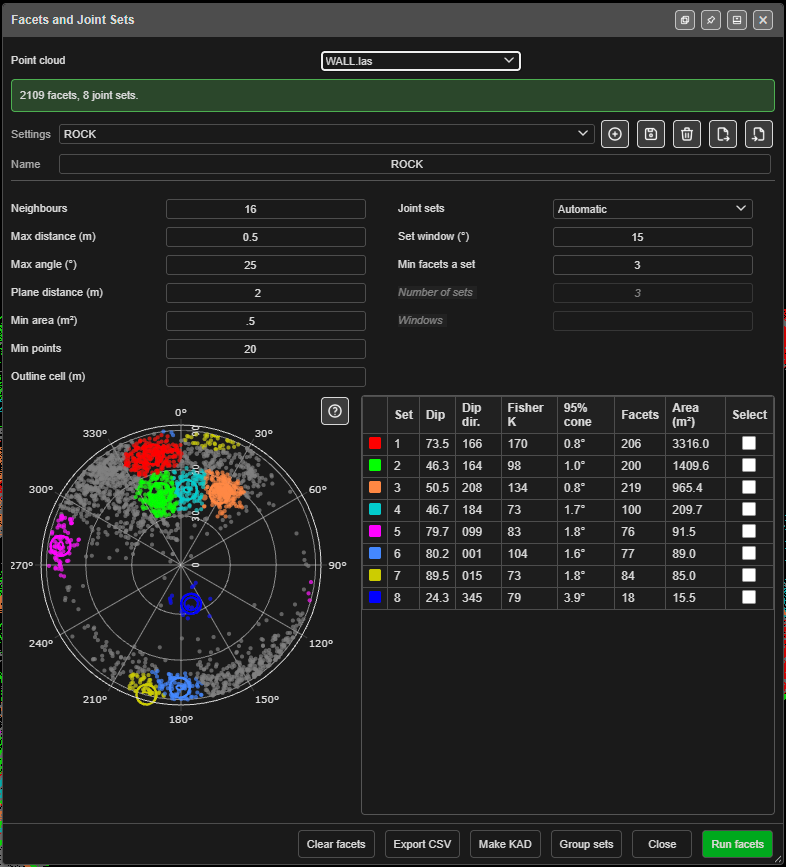
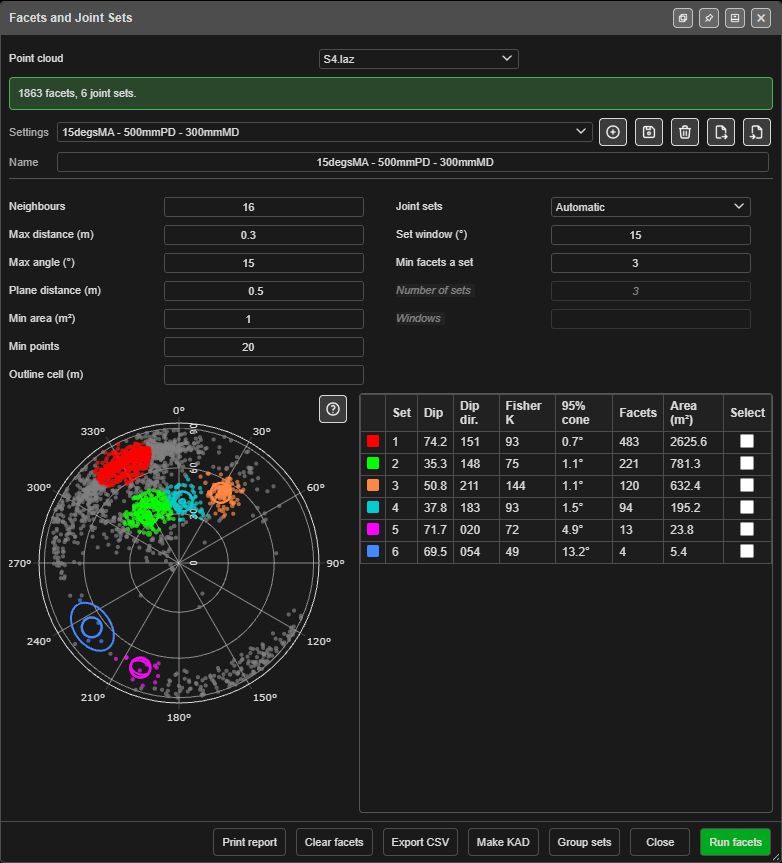
Docs: Facet Report - print, preview and the five report pages; Settings presets (Kirra 1.1.36.67)
- Print a Facet Report: title / author prompt, preview with Discard / Save PDF,
  what each page holds, the method's limits.
- Settings presets: the preset bar's controls, presets per workspace.
- New dialog capture on a 10.8 M point wall scan with a saved preset (1,863
  facets, 6 joint sets); Finding facets progress window.
- Report pages rendered from the PDF the app saved.

diff --git a/surfaces/facets-joint-sets.md b/surfaces/facets-joint-sets.md
@@ -11,10 +11,10 @@ CSV.
 Use it to read the structure of a blasted wall, a pre-split face or a cut from a scan, without
 measuring each plane by hand.
 
-![The Facets and Joint Sets dialog after a run on a scanned pit wall: a saved preset, the stereonet and eight joint sets](../screenshots/FacetsJointSets.png)
+![The Facets and Joint Sets dialog after a run on a 10.8 million point wall scan: a saved preset, the stereonet and six joint sets](../screenshots/FacetsJointSets.png)
 
-*A run on a 1.8 million point scan of a pit wall, with a saved preset (**ROCK**: Max distance 0.5 m,
-Max angle 25°) rather than the defaults.*
+*A run on a 10.8 million point scan of a pit wall, with a saved preset (Max angle 15°, Plane
+distance 0.5 m, Max distance 0.3 m) rather than the defaults: 1,863 facets in six joint sets.*
 
 ---
 
@@ -44,6 +44,9 @@ buttons in its title bar.
    *"Runs on the whole cloud (n points). Select the wall first to keep a big scan quick."*
 2. Check the facet settings and the joint-set settings (below).
 3. Click **Run facets**. A **Finding facets** progress window shows the work, with **Cancel**.
+
+   ![The Finding facets progress window: a progress bar, the number of points, the time so far and the estimated finish](../screenshots/FacetsProgress.png)
+
 4. The banner reports the result, for example *"2109 facets, 8 joint sets."* The stereonet and the
    table fill in, and the cloud is coloured by joint set.
 
@@ -81,8 +84,23 @@ Click **Group sets** to group the facets again with new joint-set settings. It i
 not find the facets again. A window that is not three numbers is named in the banner, for example
 *Set window 2 "70/200" is not dip/dip direction/angle*.
 
-**Settings** at the top saves both groups of settings as a named preset, so you can use the same
-settings on the next scan.
+### Settings presets
+
+**Settings** at the top saves both groups of settings as a named preset, so the next scan of the
+same rock runs with the same settings.
+
+| Control | What it does |
+|---|---|
+| **Settings** dropdown | Applies a saved preset. |
+| **Name** | Type a name, then press **+** to save it. Edit it while a preset is selected to rename that preset. |
+| **+** | Saves the current settings as a new preset. |
+| **Save** | Updates the selected preset from the current settings. |
+| **Bin** | Deletes the selected preset. |
+| **Export** / **Import** | Saves presets to a JSON file, or loads them from one. |
+
+A name that records the settings, such as *15degsMA - 500mmPD - 300mmMD* (Max angle, Plane distance,
+Max distance), makes the list easy to read. Presets are kept in Kirra for the workspace you are in;
+use **Export** and **Import** to take them to another workspace or computer.
 
 ---
 
@@ -143,10 +161,11 @@ were found (… points then, … now). Run facets again to update them."*
 
 ---
 
-## Make KAD, Export CSV and Clear facets
+## Make KAD, Export CSV, Clear facets and Print report
 
 | Button | What it does |
 |---|---|
+| **Print report** | Prints a [Facet Report](#print-a-facet-report) PDF of this run |
 | **Make KAD** | Draws each facet that is in a joint set as one closed 3D KAD polygon, in the set's colour, with a sub-layer per set (*\<cloud\> Set 1*, *\<cloud\> Set 2* …) under the **Analysis** layer — or on the active layer when one is set. Above 2,000 polygons Kirra asks first. The banner says *"Made n facet polygons, a layer per joint set."* |
 | **Export CSV** | Saves two files: `<cloud>_facets.csv` (one row per facet: id, x, y, z, dip, dipDirection, area, rms, set, points) and `<cloud>_joint_sets.csv` (one row per set: id, dip, dipDirection, fisherK, cone95, facets, area). Facet centres are in world coordinates |
 | **Clear facets** | Removes the facets and joint sets from the cloud. A cloud coloured by facet or joint set goes back to its usual colouring |
@@ -155,6 +174,56 @@ were found (… points then, … now). Run facets again to update them."*
 > **Make KAD needs this session's run.** Facet outlines are kept only while the dialog is open. If
 > you close it and come back, **Make KAD** says *"Run facets first: facet outlines are kept only
 > until the dialog closes."* Click **Run facets** again.
+
+---
+
+## Print a Facet Report
+
+**Print report** turns the run into an A4 PDF to hand on: the joint sets, where they are on the
+wall, and what they mean, in the same style as the [Fragmentation Report](fragments.md).
+
+1. Run facets, and check the joint sets look right.
+2. Click **Print report**.
+3. In **Print Facet Report**, type a **Report title** — a wall, a bench or a pit — and an
+   **Author**. A blank title uses the cloud's name. Click **Print**.
+4. Kirra builds the report under the busy indicator, then shows it in a preview with its
+   **File name** and size. Read through the pages there.
+5. Click **Save PDF** to save it, or **Discard** to throw it away.
+
+![The Print Facet Report prompt, with a report title and an author](../screenshots/FacetReportPrompt.png)
+
+![The Facet Report preview: the file name, the page thumbnails and page 1 of the report, with Discard and Save PDF](../screenshots/FacetReportPreview.png)
+*The preview before saving. Kirra names the file from the title, here `Test_wall_facet_report.pdf`.*
+
+### What the report holds
+
+| Page | What is on it |
+|---|---|
+| **1** | The title, date, Kirra version and author; the cloud, its point count and what the run covered; four summary cards (**Facets**, **Joint sets**, **In sets**, **Main set**); and a plan of the scan coloured by joint set, with a north arrow, a scale bar and a legend of each set's dip/dip direction |
+| **Views from the sides** | The scan seen from the side, square to the wall, coloured by joint set, with RL and distance scales. Kirra picks one view for each way the wall's steep facets face, three to a page. When no wall direction stands out it shows the four compass sides instead |
+| **Stereonet and joint sets** | The stereonet (lower hemisphere, equal area, poles sized by area, mean planes dashed, 95 % cones), a rose diagram of dip directions in 10° bins by facet area, and the joint-set table with a plain-words description of each set (for example *steeply dipping SSE*) and its share of the facet area |
+| **Observations** | A line per set — its orientation, size, how tightly it clusters, and a warning when it has only a few facets — then **Between sets**: the angle between each pair of sets, and whether they cross obliquely or are near perpendicular and cut the rock into blocks. The facets that fit no set are counted |
+| **Last page** | **Run settings**, every setting the run used, and **Limits**: what the method cannot see |
+
+| Page 1 | Stereonet and joint sets |
+|---|---|
+| ![Facet Report page 1: the header, four summary cards and a plan of the wall coloured by joint set](../screenshots/FacetReportPage1.png) | ![Facet Report page 3: the stereonet, the rose diagram and the joint-set table](../screenshots/FacetReportPage3.png) |
+
+| Views from the sides | Observations |
+|---|---|
+| ![Facet Report page 2: the wall seen from 150°, looking 330°, coloured by joint set, with RL and distance scales](../screenshots/FacetReportPage2.png) | ![Facet Report page 4: an observation for each joint set, and the angles between the sets](../screenshots/FacetReportPage4.png) |
+
+*The five-page report from the run above.*
+
+> **Read the limits.** The report says so on its last page: facets are fitted to the scanned
+> surface, so joints that face the scanner show as large facets, and joints that meet the wall
+> nearly edge-on show only as traces and are under-counted. The results describe a wall, crest or
+> face scan — facets on broken rock, such as a muckpile, are not joints. Joint spacing and
+> persistence are not measured. Orientations are dip/dip direction from grid north, in the cloud's
+> coordinate system.
+
+Each set's dip/dip direction can be typed in wherever a model asks for joint orientation, such as
+a Kuz-Ram rock factor.
 
 ---
 
